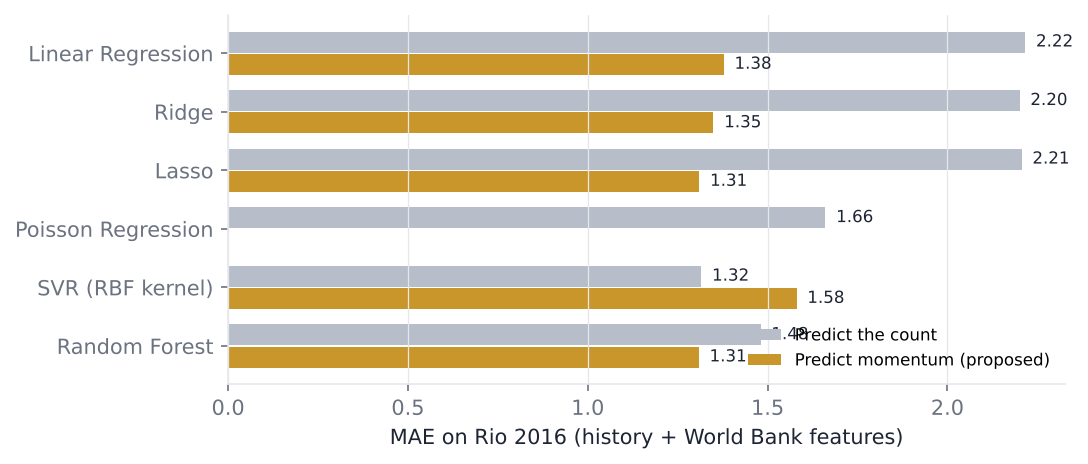
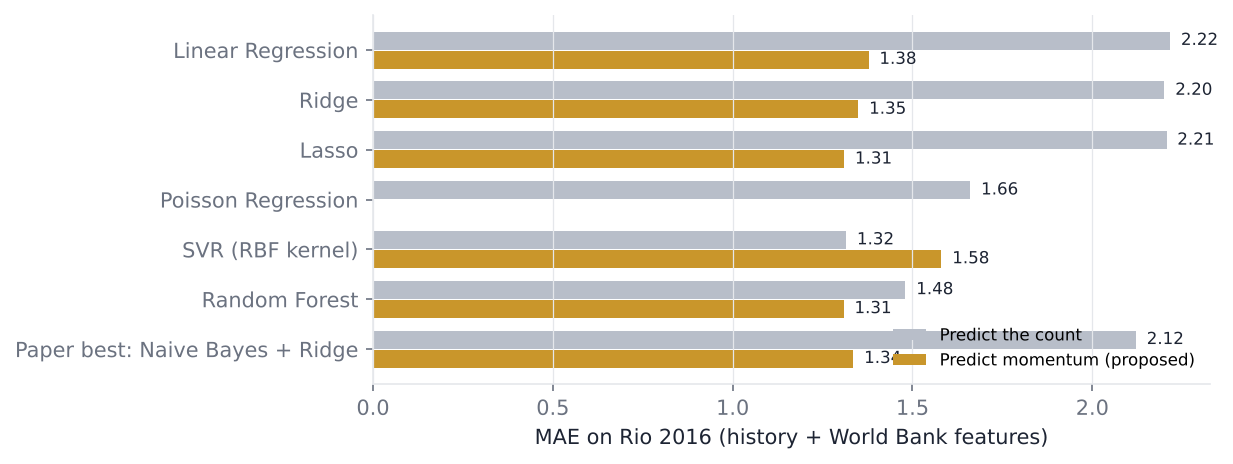
Add the paper's best Naive Bayes + Ridge two-stage model to the comparison

diff --git a/src/olympic_momentum/model_zoo.py b/src/olympic_momentum/model_zoo.py
@@ -17,7 +17,7 @@ from itertools import product
 
 import numpy as np
 import pandas as pd
-from sklearn.base import clone
+from sklearn.base import BaseEstimator, RegressorMixin, clone
 from sklearn.compose import ColumnTransformer
 from sklearn.ensemble import RandomForestClassifier, RandomForestRegressor
 from sklearn.impute import SimpleImputer
@@ -80,6 +80,47 @@ def classifier_grid(forest: ForestParams) -> dict[str, object]:
     }
 
 
+class NaiveBayesRidgeHurdle(BaseEstimator, RegressorMixin):
+    """The paper's best design: Gaussian Naive Bayes decides medal / no medal,
+    then Ridge regression (trained on medal-winning rows only) predicts how many.
+
+    ``target="momentum"`` swaps the Ridge stage to our momentum target
+    (log-change versus the previous Games). Inputs are the raw feature frame
+    and raw medal counts.
+    """
+
+    def __init__(self, alpha: float = 1.0, target: str = "level"):
+        self.alpha = alpha
+        self.target = target
+
+    def _encode(self, X: pd.DataFrame, y: np.ndarray) -> np.ndarray:
+        if self.target == "momentum":
+            return np.log1p(y) - np.log1p(X["Previous_Medals"].to_numpy(dtype=float))
+        return y
+
+    def _decode(self, X: pd.DataFrame, raw: np.ndarray) -> np.ndarray:
+        if self.target == "momentum":
+            raw = np.expm1(np.log1p(X["Previous_Medals"].to_numpy(dtype=float)) + raw)
+        return np.clip(raw, 0.0, None)
+
+    def fit(self, X: pd.DataFrame, y) -> "NaiveBayesRidgeHurdle":
+        X = X[list(FEATURES)]
+        y = np.asarray(y, dtype=float)
+        won = y > 0
+        self.classifier_ = make_pipeline(preprocessor(), GaussianNB()).fit(X, won)
+        self.regressor_ = make_pipeline(preprocessor(), Ridge(alpha=self.alpha)).fit(
+            X[won], self._encode(X[won], y[won]))
+        return self
+
+    def predict(self, X: pd.DataFrame) -> np.ndarray:
+        X = X[list(FEATURES)]
+        wins = self.classifier_.predict(X).astype(bool)
+        return np.where(wins, self._decode(X, self.regressor_.predict(X)), 0.0)
+
+
+PAPER_BEST = "Paper best: Naive Bayes + Ridge"
+
+
 def _games(df: pd.DataFrame, start: int, end: int) -> pd.DataFrame:
     return df.loc[df["Year"].between(start, end)]
 
@@ -112,6 +153,19 @@ def compare_regressors(df: pd.DataFrame, config: ExperimentConfig, forest: Fores
             rows.append({"model": name, "target": "Momentum" if target == "momentum" else "Count",
                          "validation_MAE": best_mae, "params": best_params,
                          **regression_metrics(test[TARGET], model.predict(test))})
+
+    # The paper's best two-stage pairing, with its count target and with ours.
+    for target in ("level", "momentum"):
+        best_alpha, best_mae = None, np.inf
+        for alpha in (0.1, 1.0, 10.0, 100.0):
+            model = NaiveBayesRidgeHurdle(alpha, target).fit(tune_train, tune_train[TARGET])
+            mae = regression_metrics(valid[TARGET], model.predict(valid))["MAE"]
+            if mae < best_mae:
+                best_alpha, best_mae = alpha, mae
+        model = NaiveBayesRidgeHurdle(best_alpha, target).fit(final_train, final_train[TARGET])
+        rows.append({"model": PAPER_BEST, "target": "Momentum" if target == "momentum" else "Count",
+                     "validation_MAE": best_mae, "params": {"alpha": best_alpha},
+                     **regression_metrics(test[TARGET], model.predict(test))})
     return pd.DataFrame(rows)
 
 

diff --git a/tests/test_pipeline.py b/tests/test_pipeline.py
@@ -131,3 +131,14 @@ def test_every_model_fits_and_predicts_non_negative(table, world_bank, spec):
 def test_regression_metrics_perfect_prediction():
     metrics = regression_metrics([1, 2, 3], [1, 2, 3], top_k=2)
     assert metrics["MAE"] == 0 and metrics["RMSE"] == 0 and metrics["R2"] == 1
+
+
+@pytest.mark.parametrize("target", ["level", "momentum"])
+def test_paper_best_hurdle_predicts_zero_or_positive(table, world_bank, target):
+    from olympic_momentum.model_zoo import NaiveBayesRidgeHurdle
+
+    features = add_economic_features(build_temporal_features(table), world_bank)
+    model = NaiveBayesRidgeHurdle(alpha=1.0, target=target).fit(features, features["Total_Medals"])
+    predictions = model.predict(features)
+    assert predictions.shape == (len(features),)
+    assert (predictions >= 0).all()
